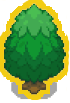
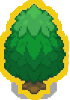
Static objects draw fix

diff --git a/GameObject/game_object.cpp b/GameObject/game_object.cpp
@@ -1,7 +1,6 @@
-#include "game_object.h"
-
 #include <vector>
-#include <iostream>
+
+#include "game_object.h"
 
 GameObject::GameObject(const Size& size, const Point& position)
     : size_(size), position_(position) {
@@ -77,4 +76,17 @@ int GameObject::GetSkinId() const {
 
 void GameObject::SetSkinId(int skin_id) {
   skin_id_ = skin_id;
+}
+
+Size GameObject::GetDrawSize(const Size& object_size) const {
+  double object_width = object_size.GetWidth();
+  double object_height = object_size.GetHeight();
+  if (skin_.width() >= skin_.height()) {
+    double scale_coeff = static_cast<double>(skin_.height()) / skin_.width();
+    object_height *= scale_coeff;
+  } else {
+    double scale_coeff = static_cast<double>(skin_.width()) / skin_.height();
+    object_width *= scale_coeff;
+  }
+  return Size(object_width, object_height);
 }

diff --git a/Model/model.cpp b/Model/model.cpp
@@ -135,10 +135,14 @@ std::shared_ptr<PortalObject> Model::MakeNewPortal(const Size& size,
   static_objects_.push_back(std::make_shared<PortalObject>(size,
                                                            position,
                                                            skin_path));
-  static_objects_.back()->SetScaleCoefficientsInRigidBody(0.3, 0.3);
   int skin_id = GetRandomSkin();
   static_objects_.back()->SetSkin(objects_pics_["tree"][skin_id]);
   static_objects_.back()->SetSkinId(skin_id);
+  if (skin_id == 2) {
+    static_objects_.back()->SetScaleCoefficientsInRigidBody(0.34, 0.3);
+  } else {
+    static_objects_.back()->SetScaleCoefficientsInRigidBody(0.3, 0.3);
+  }
   if (has_portal) {
     static_objects_.back()->SetPortal();
   }

diff --git a/GameObject/portal_object.cpp b/GameObject/portal_object.cpp
@@ -27,9 +27,10 @@ void PortalObject::Draw(QPainter* painter, Resizer* resizer) const {
   painter->save();
   auto position = resizer->GameToWindowCoordinate(position_);
   auto size = resizer->GameToWindowSize(size_);
+  auto draw_size = GetDrawSize(size);
   painter->translate(position.GetX(), position.GetY());
-  int width = static_cast<int>(size.GetWidth());
-  int height = static_cast<int>(size.GetHeight());
+  int width = static_cast<int>(draw_size.GetWidth());
+  int height = static_cast<int>(draw_size.GetHeight());
   painter->drawPixmap(-width / 2, -height / 2, width, height, skin_);
   painter->restore();
   progress_bar_.Draw(painter, resizer);

diff --git a/GameObject/moving_object.h b/GameObject/moving_object.h
@@ -34,7 +34,7 @@ class MovingObject : public GameObject {
   bool IsVelocityChange(Size main_velocity);
   void SetDestination(const Point& destination);
 
-  Size GetDrawSize(const Size& object_size) const;
+  Size GetDrawSize(const Size& object_size) const override;
   void TickAnimation(int delta_time);
   AnimationState GetAnimationState() const;
 

diff --git a/GameObject/game_object.h b/GameObject/game_object.h
@@ -38,6 +38,8 @@ class GameObject {
   int GetSkinId() const;
   void SetSkinId(int skin_id);
 
+  virtual Size GetDrawSize(const Size& object_size) const;
+
  protected:
   QPixmap skin_;
   int skin_id_ = 0;
